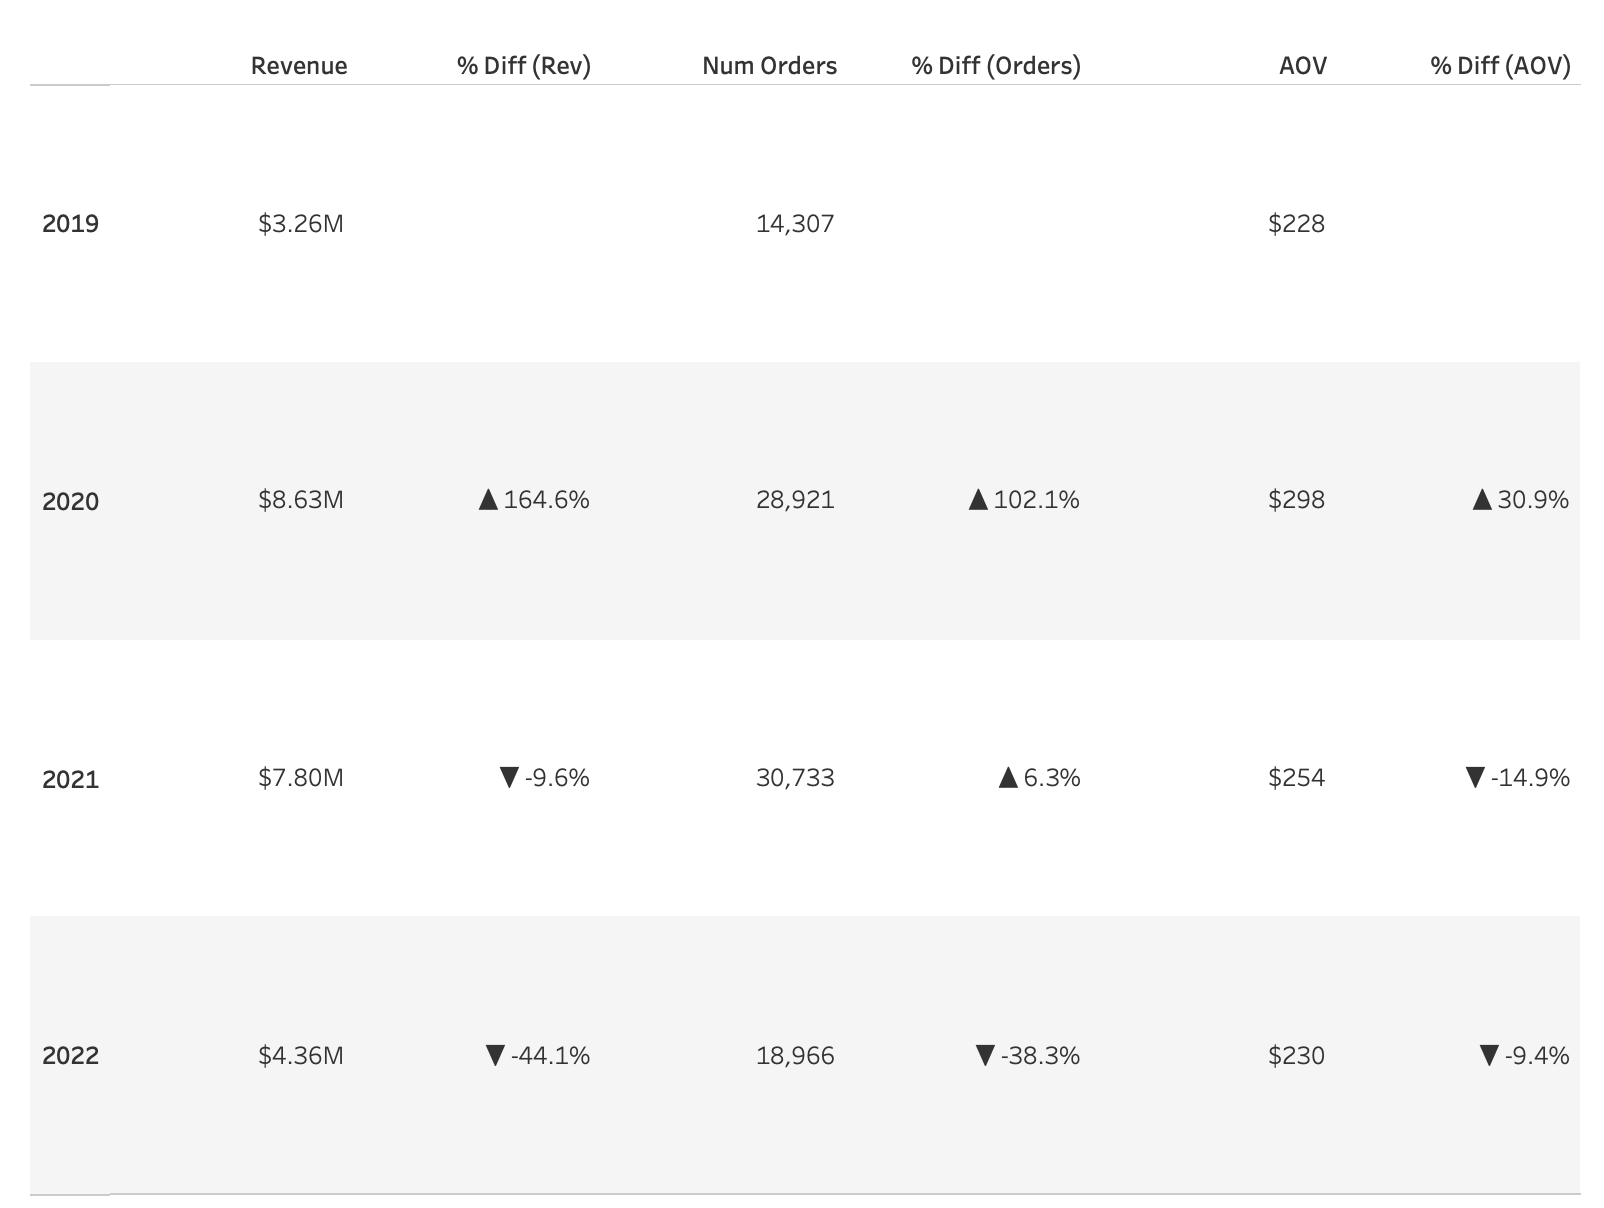
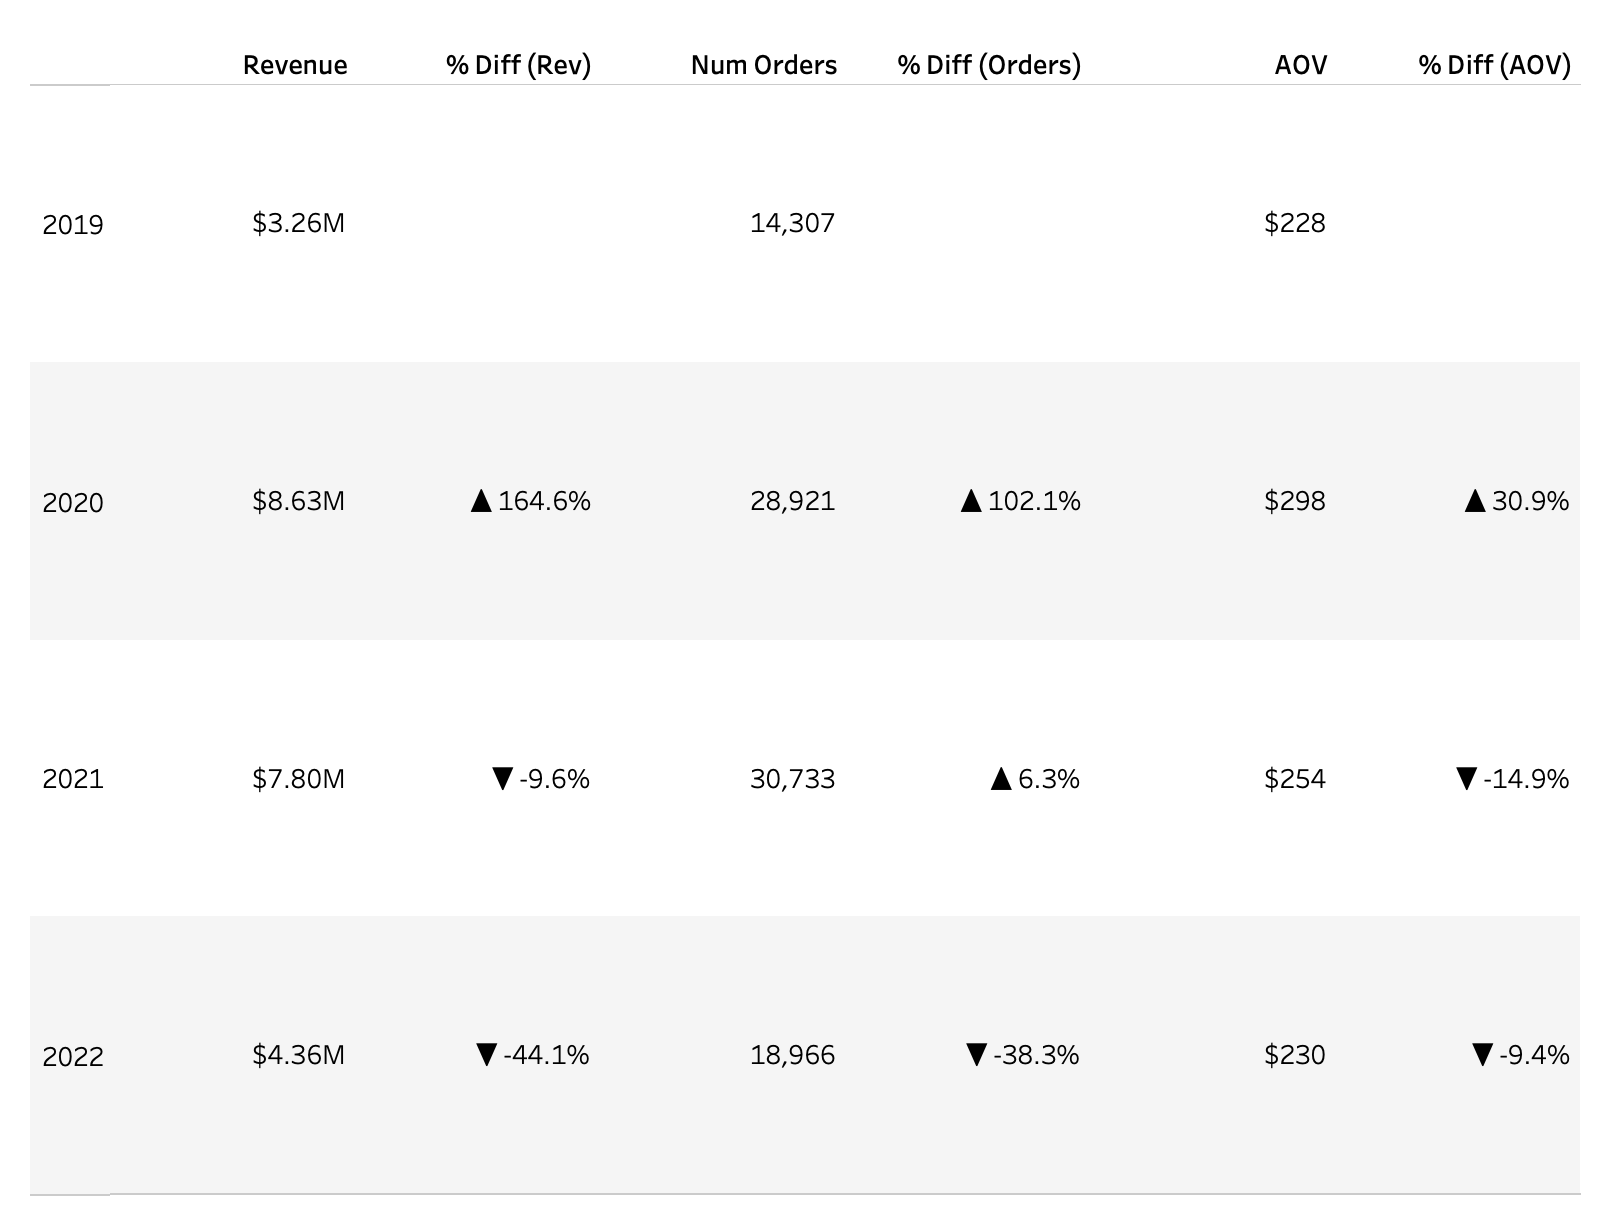
updated table

diff --git a/README.md b/README.md
@@ -53,7 +53,7 @@ E-Galaxy wants to better understand their performance and any growth opportuniti
 	<b>Table 1.</b> Annual Sales Performance Summary showing yearly sales revenue, number of orders, and average order value (AOV), including year-over-year (YoY) growth rates for each metric.
 </p>
 <p align="center";>
-  <img src="images/yearlytable.png" alt="Annual Sales Performnace Table" width="400" height="300">
+  <img src="images/yearlytable.png" alt="Annual Sales Performnace Table" width="800" height="600">
 </p> 
 
 **Table 1** shows sales revenue grew by **165%** with **102% increase in orders from 2019 to 2020**, driven by Covid-19 pandemic related shifts in consumer behavior, including increased e-commerce activity and work from home trends. In **2021**, order volume continued to rise by **6%** but average order value decline that led to **10% drop in revenue** signalling a shift toward lower value purchases. Revenue has steadily declined from **2020 to 2022**. This downward trend has accelerated between **2021 and 2022** with **orders decreasing by 38%, revenue falling by 44%** and **Avg Order Value (AOV) dropping by 9%** highlighting weakening demand and reduced customer engagement.
